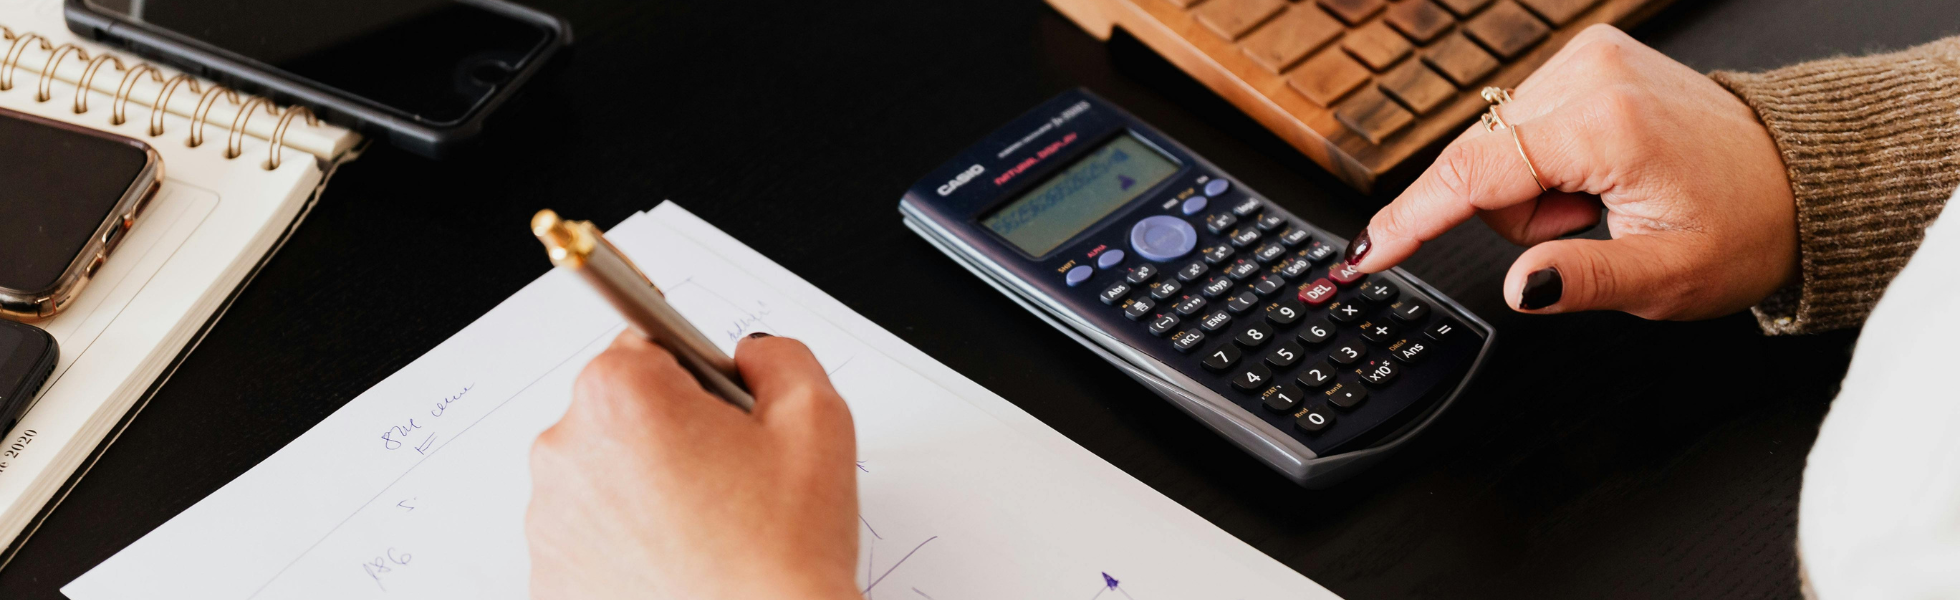
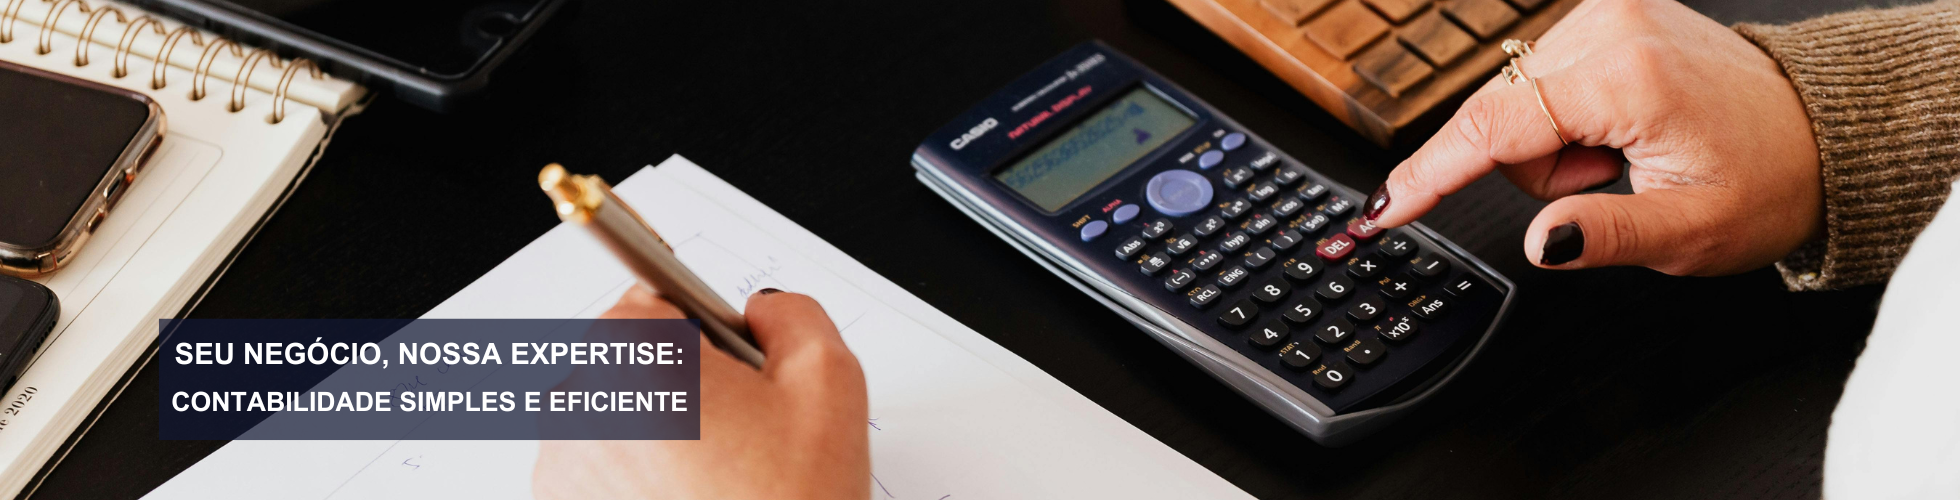
att 22-08

diff --git a/New Solutions/index.html b/New Solutions/index.html
@@ -47,10 +47,6 @@
     </script>
     <div class="banner">
         <img src="./css/banner600px.png" alt="Banner Promocional">
-        <div class="banner-background">
-            <div class="banner-text">A solução que sua empresa precisa está a um clique de distância.</div>
-        </div>
-        <a href="https://wa.me/5537998340182" class="banner-button">Fale conosco pelo WhatsApp</a>
     </div>
     <section class="about-owner">
         <div class="owner-info">
